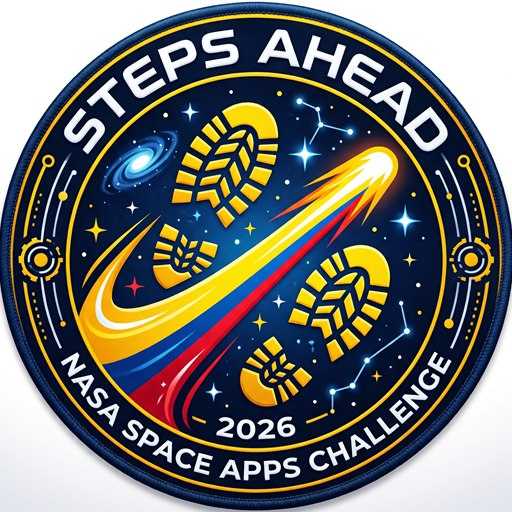
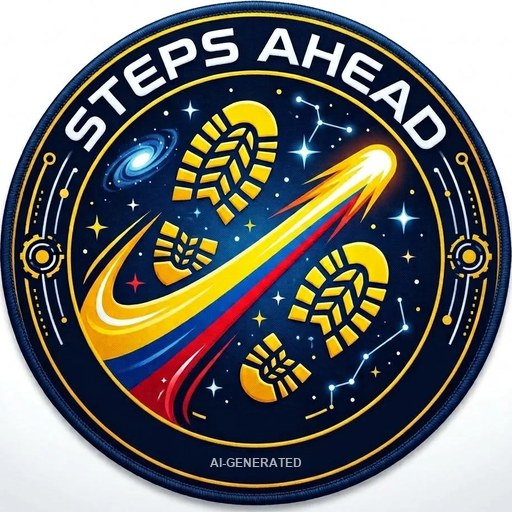
fix(ia): new team badge without NASA branding; visible AI watermarks
- Replace the Steps Ahead badge with a new version that no longer reads
  "NASA", with a tiny "AI-GENERATED" watermark inside the image.
- Make the "AI-generated ship" watermark easier to see (larger text,
  dark backing) per the Space Apps SI rules.

diff --git a/src/App.tsx b/src/App.tsx
@@ -994,7 +994,7 @@ export default function App() {
           (shown while ship mode is on, also over the hyperspace jump) was generated with AI. */}
       {isShipMode && (
         <div
-          className="fixed right-3 bottom-[calc(env(safe-area-inset-bottom)+8.5rem)] z-[61] pointer-events-none select-none rounded-full border border-white/10 px-2 py-0.5 text-[9px] font-medium uppercase tracking-wider text-white/40"
+          className="fixed right-3 bottom-[calc(env(safe-area-inset-bottom)+8.5rem)] z-[61] pointer-events-none select-none rounded-full border border-white/30 bg-black/55 px-2.5 py-0.5 text-[11px] font-semibold uppercase tracking-wider text-white/85"
           role="note"
         >
           {tr('Nave generada con IA', 'AI-generated ship')}
